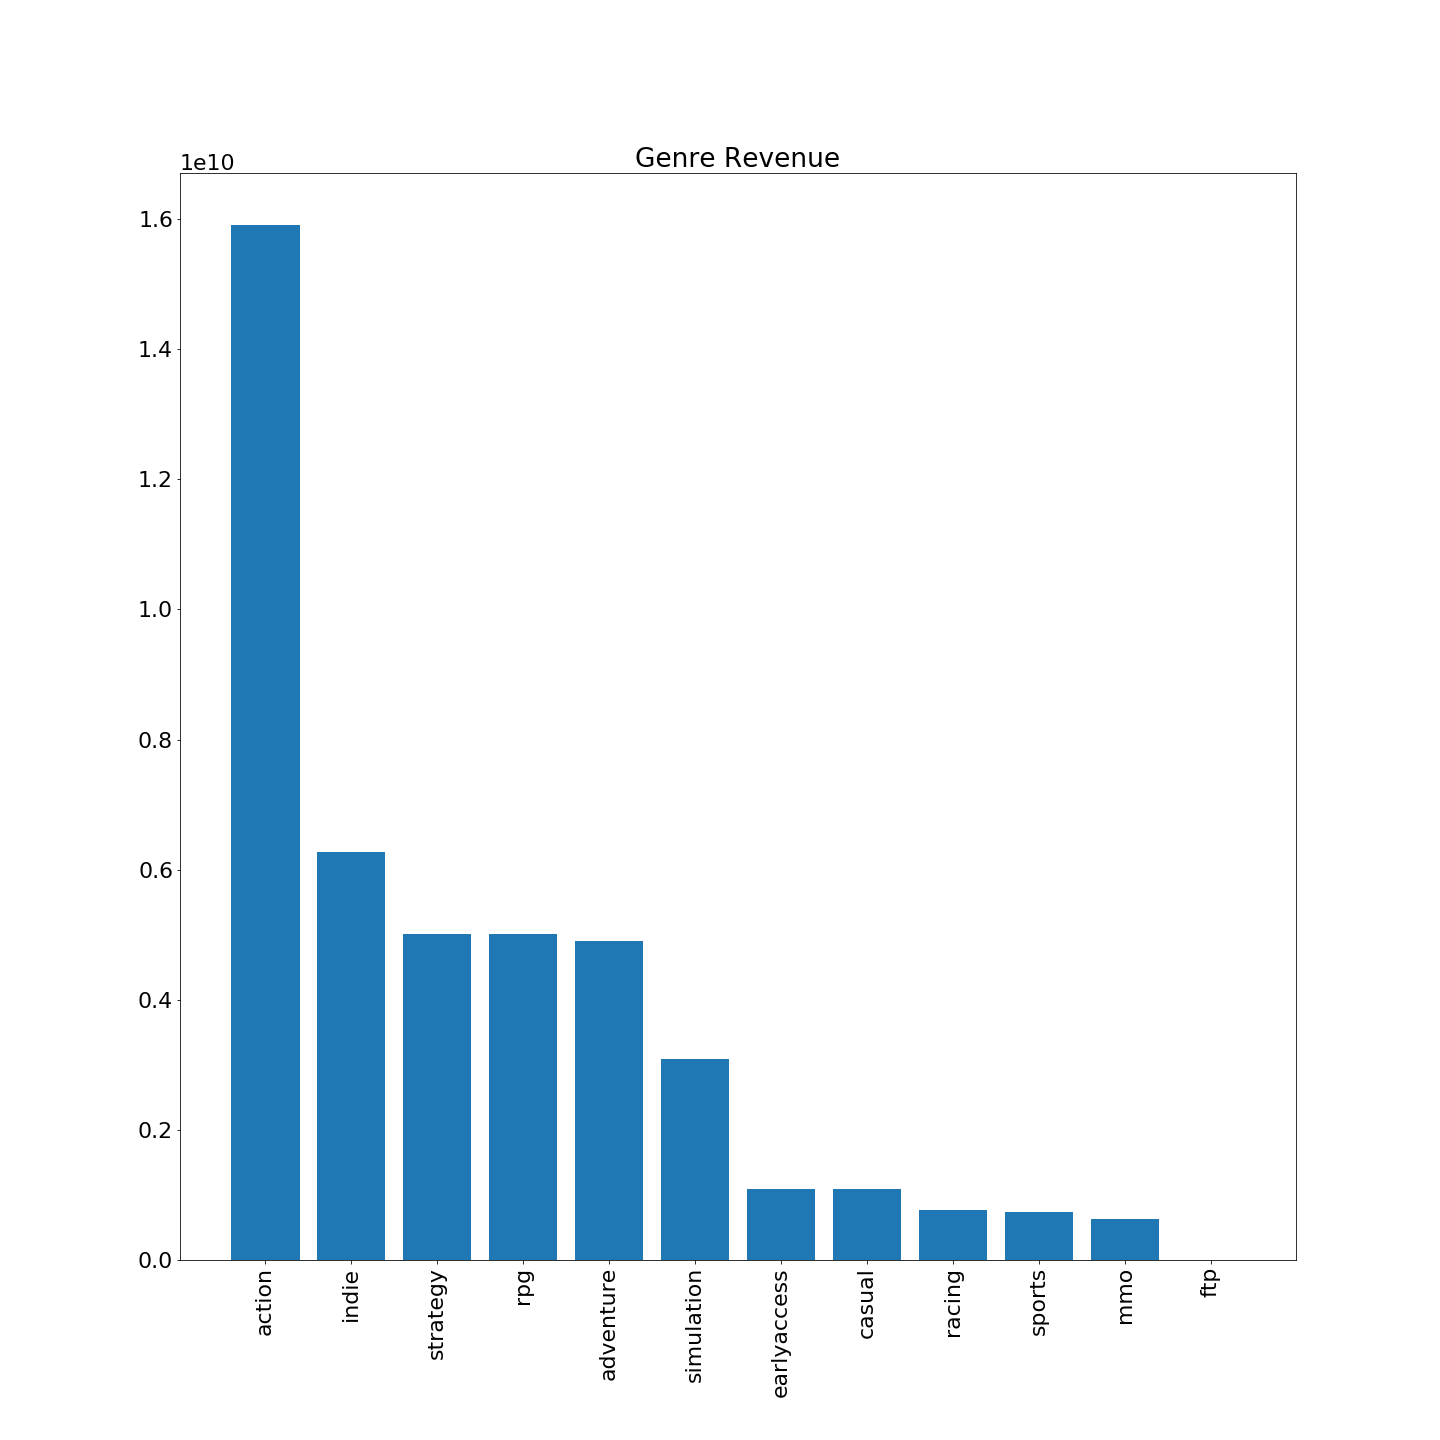
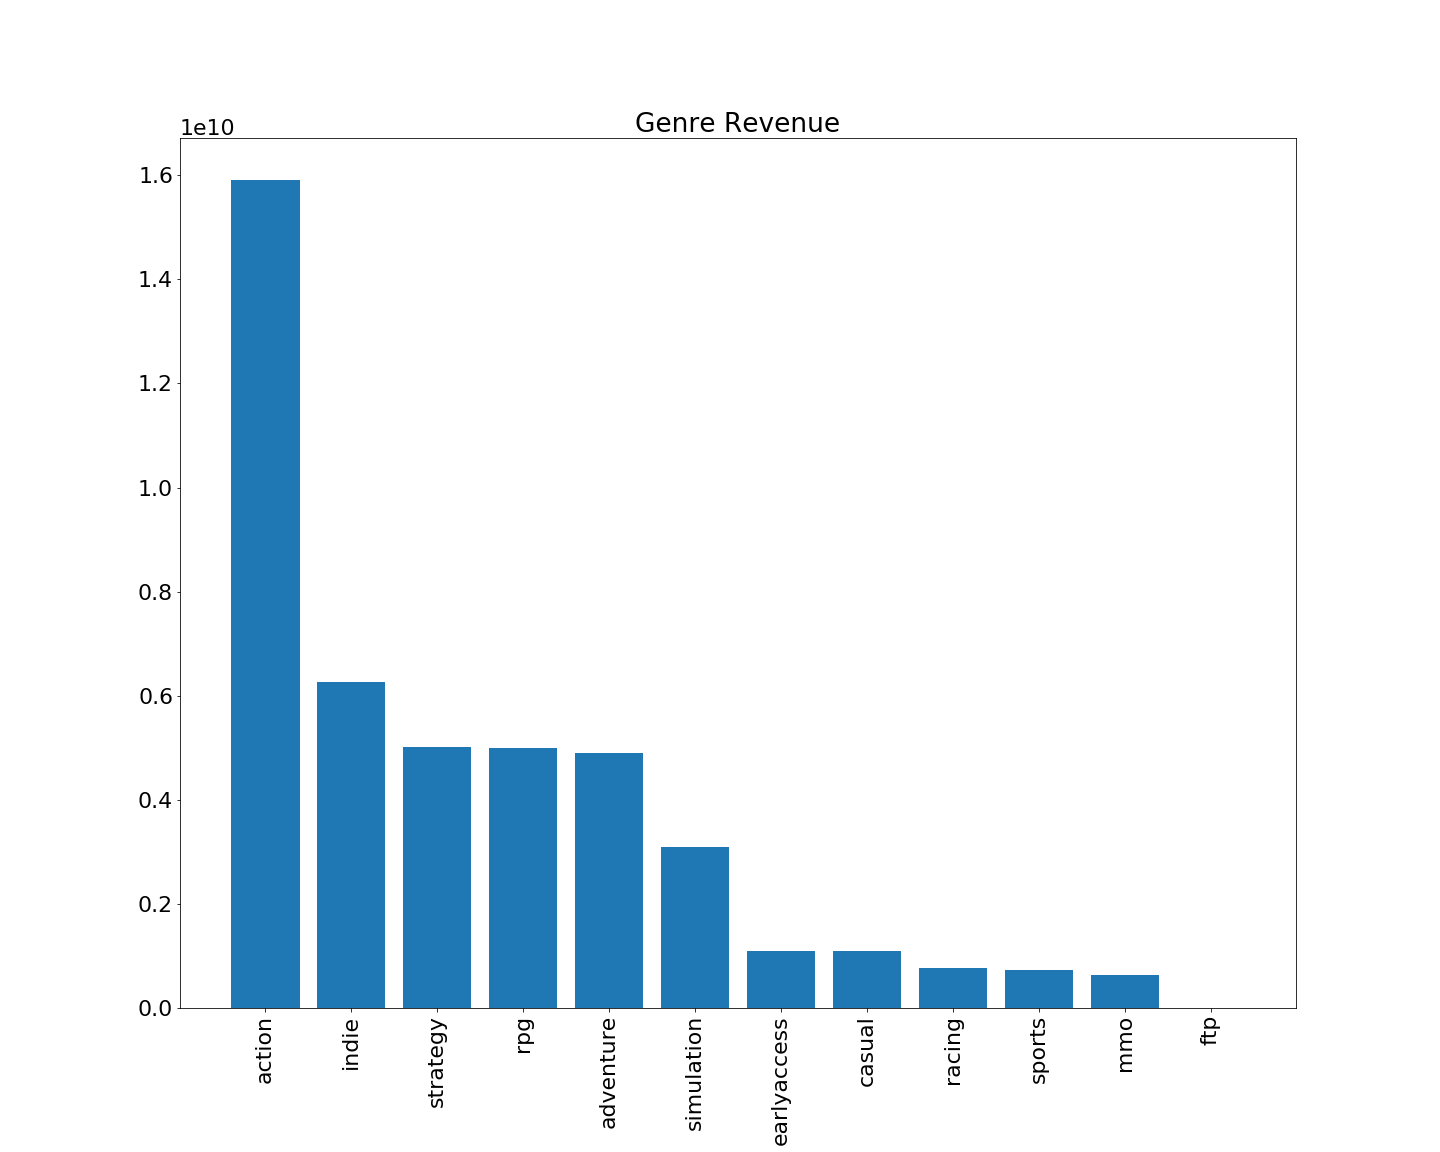
Updated Code

diff --git a/Graph_Visuals.py b/Graph_Visuals.py
@@ -34,7 +34,7 @@ axs.bar(names,values)
 plt.xticks(rotation=90)
 plt.savefig('images/GenreFrequencyBar.png')
 
-fig, axs = plt.subplots(figsize=(20,20))
+fig, axs = plt.subplots(figsize=(20,16))
 plt.rcParams.update({'font.size': 22})
 plt.title('Genre Proportions')
 names = list(data.keys())
@@ -71,7 +71,7 @@ data = {'indie' : df_indie['PriceFinal'].sum(),
 'mmo' : df_mmo['PriceFinal'].sum(),
 'ftp' : df_ftp['PriceFinal'].sum()}
 
-fig, axs = plt.subplots(figsize=(20,20))
+fig, axs = plt.subplots(figsize=(20,16))
 plt.rcParams.update({'font.size': 22})
 plt.title('Genre Game Costs')
 names = list(data.keys())
@@ -94,7 +94,7 @@ data = {'sports' : df_sports['PriceFinal'].mean(),
 'casual' : df_casual['PriceFinal'].mean(),
 'ftp' : df_ftp['PriceFinal'].mean()}
 
-fig, axs = plt.subplots(figsize=(20,20))
+fig, axs = plt.subplots(figsize=(20,16))
 plt.rcParams.update({'font.size': 22})
 plt.title('Genre Game Costs Average')
 names = list(data.keys()) 
@@ -117,7 +117,7 @@ data = {'action' : df_action['SteamSpyOwners'].sum(),
 'racing' : df_racing['SteamSpyOwners'].sum(),
 'sports' : df_sports['SteamSpyOwners'].sum()}
 
-fig, axs = plt.subplots(figsize=(20,20))
+fig, axs = plt.subplots(figsize=(20,16))
 plt.rcParams.update({'font.size': 22})
 plt.title('Genre Game Owners')
 names = list(data.keys()) 
@@ -140,7 +140,7 @@ data = {'action' : df_action['SteamSpyPlayersEstimate'].sum(),
 'racing' : df_racing['SteamSpyPlayersEstimate'].sum(),
 'sports' : df_sports['SteamSpyPlayersEstimate'].sum()}
 
-fig, axs = plt.subplots(figsize=(20,20))
+fig, axs = plt.subplots(figsize=(20,16))
 plt.rcParams.update({'font.size': 22})
 plt.title('Genre Game players')
 names = list(data.keys()) 
@@ -176,7 +176,7 @@ data = {'action' : df_action['TotalRevenue'].sum(),
 'mmo' : df_mmo['TotalRevenue'].sum(),
 'ftp' : df_ftp['TotalRevenue'].sum()}
 
-fig, axs = plt.subplots(figsize=(20,20))
+fig, axs = plt.subplots(figsize=(20,16))
 plt.rcParams.update({'font.size': 22})
 plt.title('Genre Revenue')
 names = list(data.keys()) 
@@ -198,7 +198,7 @@ data = {'mmo' : df_mmo['TotalRevenue'].mean(),
 'casual' : df_casual['TotalRevenue'].mean(),
 'ftp' : df_ftp['TotalRevenue'].mean()}
 
-fig, axs = plt.subplots(figsize=(20,20))
+fig, axs = plt.subplots(figsize=(20,16))
 plt.rcParams.update({'font.size': 22})
 plt.title('Genre Revenue Average')
 names = list(data.keys()) 

diff --git a/Data_Cleaning.py b/Data_Cleaning.py
@@ -18,10 +18,11 @@ df = df.drop(['QueryID','ResponseID','ResponseName',\
               'SupportedLanguages', 'Website', 'PCMinReqsText',\
                'PCRecReqsText','LinuxMinReqsText','LinuxRecReqsText',\
               'MacMinReqsText','MacRecReqsText','CategoryIncludeSrcSDK'],axis=1)
+print(df.columns)
 
-#Remove duplicate columns
+#Remove duplicate rows
 df = df.drop_duplicates()
-#Remove games that are no longer for sale and remove the column
+#Remove games that are no longer for sale and remove the row
 df = df[df.PurchaseAvail != False]
 df = df.drop(['PurchaseAvail'],axis=1)
 #Remove any non games as it will effect data of games
